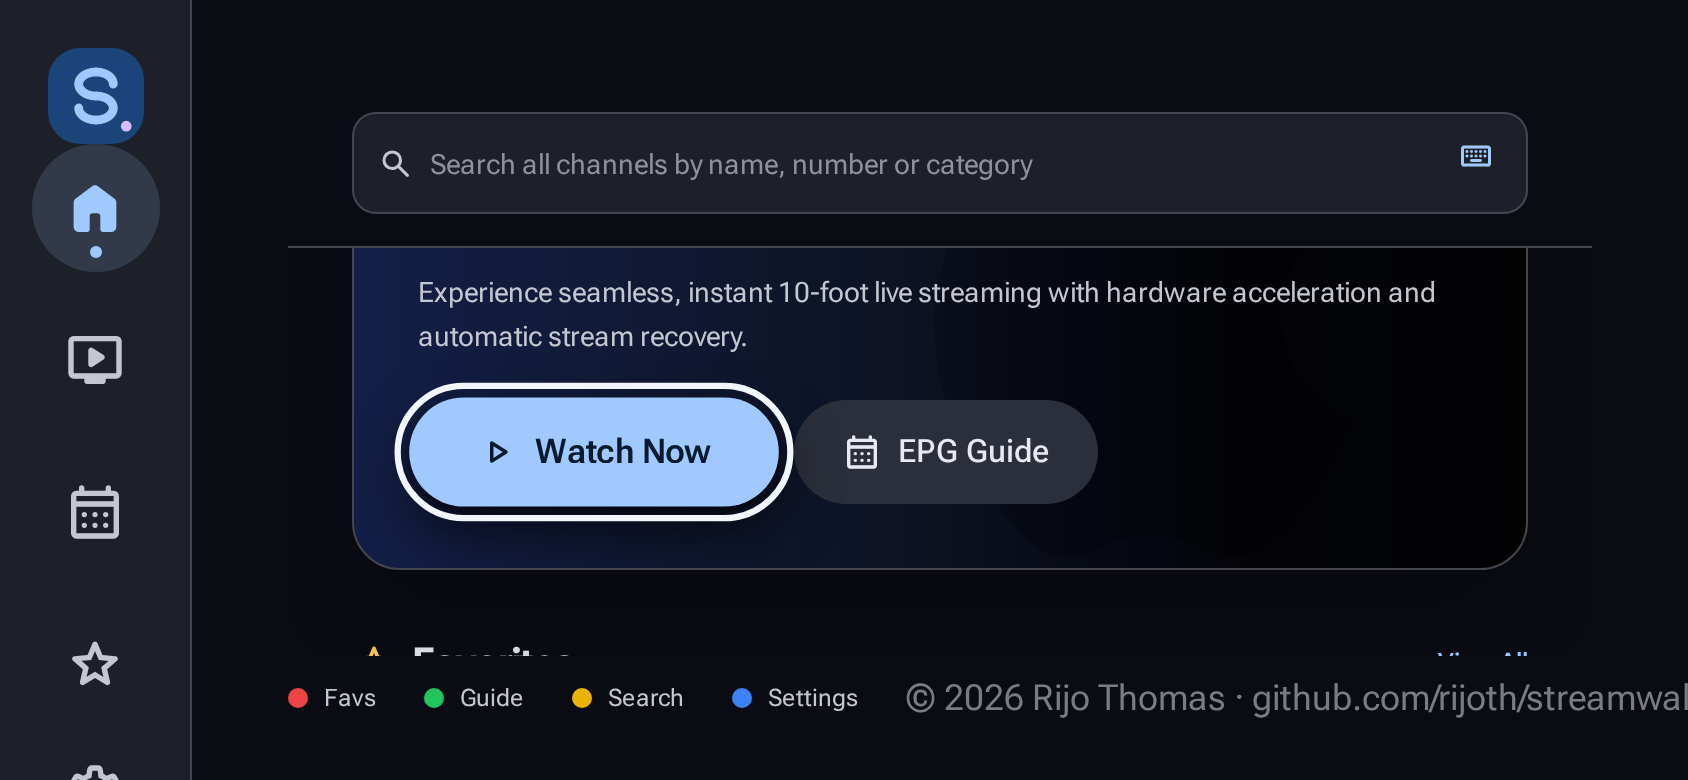
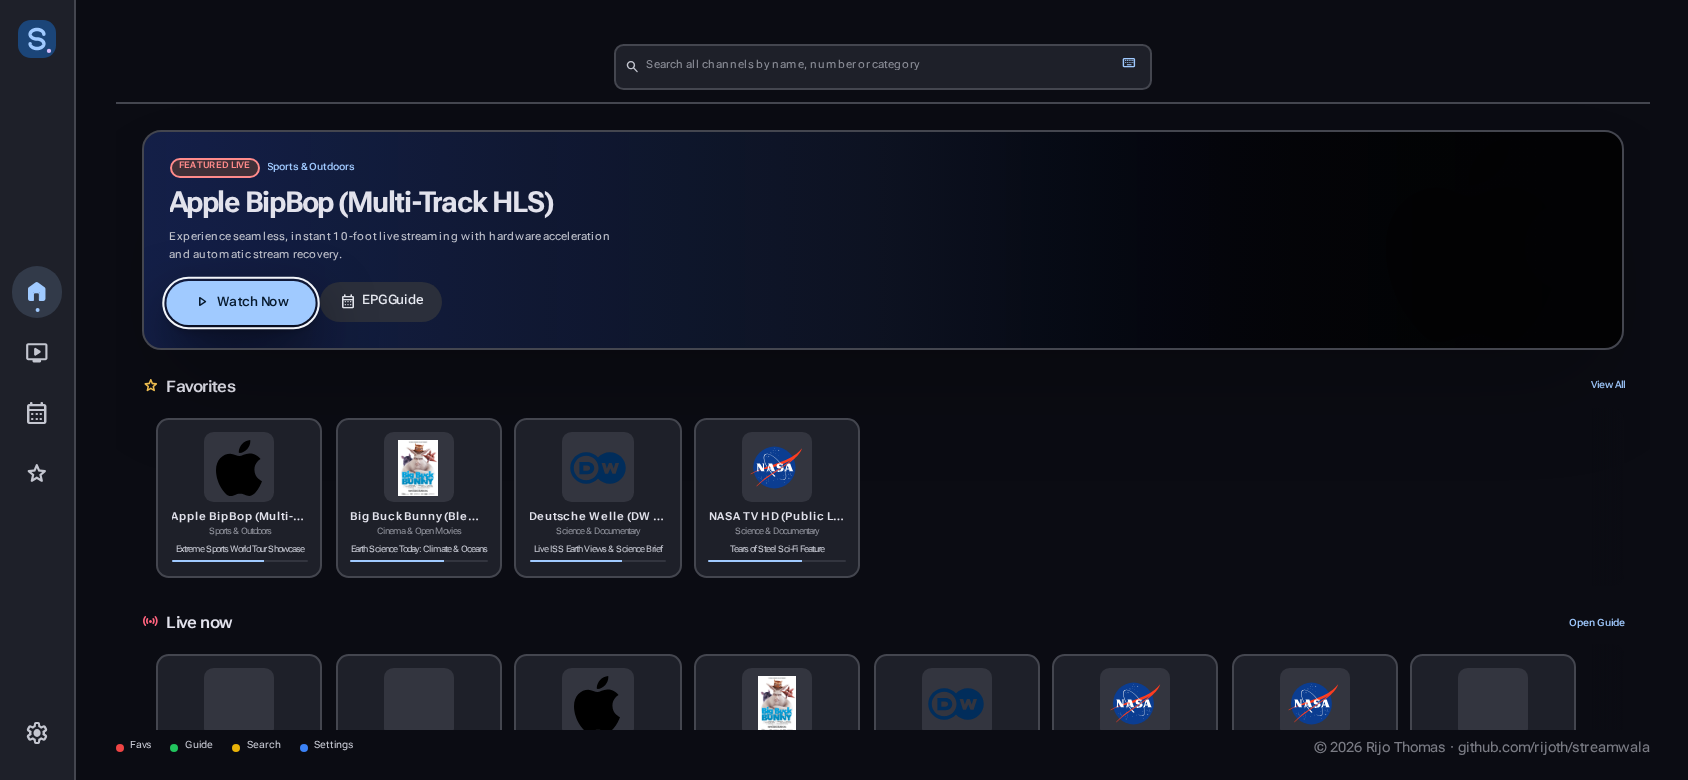
docs(readme): add app screenshots and regenerate captures
Add a Screenshots section with TV captures of the demo playlist, plus a
tablet portrait shot under the Android section. No mockups or provider data.

Refresh every preset from the current build: the earlier captures predated
the onboarding Settings removal and showed an empty guide. The script now
jumps the guide to now, captures playback with the control overlay open,
and retries once when the demo HLS stream is slow to start.

diff --git a/README.md b/README.md
@@ -4,6 +4,23 @@ Streamwala is a client-side IPTV player for big screens and Android TV. It is a 
 
 I built it because most IPTV players are desktop apps that ignore a remote, or thin wrappers around someone else's service. I wanted something I could point at my own M3U or Xtream account, drive entirely with a TV remote, and run without a server in the middle.
 
+## Screenshots
+
+Taken from the running app at 1920×1080 with the demo playlist loaded. No mockups, no device frames, and no private provider data.
+
+![Streamwala home screen on Android TV](docs/screenshots/tv/03-home.png)
+
+| Live TV | Playback |
+| --- | --- |
+| ![Channel browser with the category rail](docs/screenshots/tv/04-live-tv.png) | ![Playback with the TV control overlay open](docs/screenshots/tv/05-player.png) |
+| **Live TV.** Groups on the left, channels on the right, favourites one press away. | **Playback.** Zapping, aspect ratio, picture-in-picture, fullscreen and stream stats. |
+| ![Program guide timeline](docs/screenshots/tv/06-guide.png) | ![Favourite channels](docs/screenshots/tv/07-favorites.png) |
+| **Program guide.** Two-axis timeline with Now/Next and a live Now line. OK opens details. | **Favorites.** Pinned channels from the active playlist, searchable and always first. |
+| ![Settings](docs/screenshots/tv/08-settings.png) | ![Source picker during onboarding](docs/screenshots/tv/02-playlist-source.png) |
+| **Settings.** Theme, TV safe area, UI scale, playback engine, playlists and proxy. | **Sources.** Demo, M3U/M3U8 URL (with XMLTV), a local file, or Xtream Codes. |
+
+Regenerate them with `node scripts/web-screenshots.mjs tv` (also `tablet`, `tablet-portrait`, `phone` and `phone-landscape`). The script drives the demo playlist, so a capture cannot leak a real provider URL, username or channel.
+
 ## What works
 
 Live TV with channel groups and zapping. Playback tries hls.js, then mpegts.js, then the native video element, so HLS, MPEG-TS and plain MP4 sources all get a chance. Changing channels shows a Now and Next banner, a number pad accepts direct channel entry, and an info button toggles playback stats.
@@ -88,6 +105,12 @@ npm run android:assets   # regenerate icons, banner and splash
 ```
 
 APKs land in `android/app/build/outputs/apk/{mobile,tv}/{debug,release}/`. `docs/ANDROID.md` covers signing, installing and the manifest checks.
+
+The mobile flavour is tablet-only (600dp+) and works in portrait with touch. Same app, same focus engine, no phone layout:
+
+<p align="center">
+  <img src="docs/screenshots/tablet-portrait/03-home.png" alt="Streamwala on a 600dp tablet in portrait" width="360">
+</p>
 
 ## Releases
 
